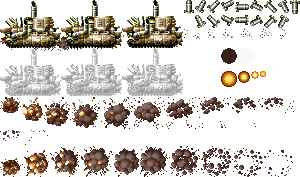
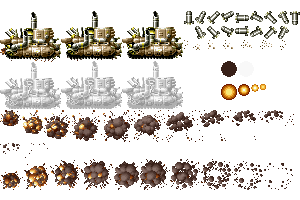
MiniTank SpriteSheet+Animation Damage Added

diff --git a/EnemyMiniTank.cpp b/EnemyMiniTank.cpp
@@ -3,15 +3,27 @@
 #include "ModuleCollision.h"
 #include "Globals.h"
 #include "ModuleEnemies.h"
+#include "SDL\include\SDL_timer.h"
 
 Enemy_MiniTank::Enemy_MiniTank(int x, int y, powerUpTypes type, SDL_Texture* thisTexture) : Enemy(x, y)
 {
 	enemyTex = thisTexture;
 
-	move.PushBack({ 0,0,61,47 });
+	move2.PushBack({ 0,1,61,50 });
+	move.PushBack({ 61,0,61,50 });
+	move.PushBack({ 122,0,61,48 });
+	move.speed = 0.2f;
+	
+	damage2.PushBack({ 0,62,61,50 });
+	damage.PushBack({ 61,61,61,50 });
+	damage.PushBack({ 122,61,61,48 });
+	damage.speed = 0.2f;
+
 	animation = &move;
 	shootanimation = &move2;
+	shootanimationdamage = &damage2;
 
+	current_animation = &move;
 	//Path
 	path.PushBack({ -0.1f, 0.0f }, 140, &move);
 	path.PushBack({ 1.1f, 0.0f }, 130, &move);
@@ -43,4 +55,26 @@ Enemy_MiniTank::Enemy_MiniTank(int x, int y, powerUpTypes type, SDL_Texture* thi
 void Enemy_MiniTank::Move()
 {
 	position = original_pos + path.GetCurrentSpeed(&animation);
+}
+
+void Enemy_MiniTank::Draw()
+{
+	if (receiveDamage)
+	{
+		current_frame = current_animation->current_frame;
+		current_animation = &damage;
+		current_animation->current_frame = current_frame;
+		receiveDamage = false;
+		start_damage_time = SDL_GetTicks();
+	}
+
+	nowDamagetime = SDL_GetTicks() - start_damage_time;
+
+	if (nowDamagetime > damageAnimTime)
+	{
+		current_frame = current_animation->current_frame;
+		current_animation = &move;
+		current_animation->current_frame = current_frame;
+	}
+
 }

diff --git a/EnemyMiniTank.h b/EnemyMiniTank.h
@@ -10,14 +10,21 @@ class Enemy_MiniTank : public Enemy
 private:
 	Path path;
 	iPoint original_pos;
-	Animation move, move2;
+	Animation move, move2, damage, damage2;
 	Animation * shootanimation;
+	Animation* shootanimationdamage;
+	Animation * current_animation;
+	Uint32 start_damage_time;
+	Uint32 nowDamagetime;
+	Uint32 damageAnimTime;
+	float current_frame;
 
 public:
 
 	Enemy_MiniTank(int x, int y, powerUpTypes type, SDL_Texture * thisTexture = nullptr);
 
 	void Move();
+	void Draw();
 };
 
 
